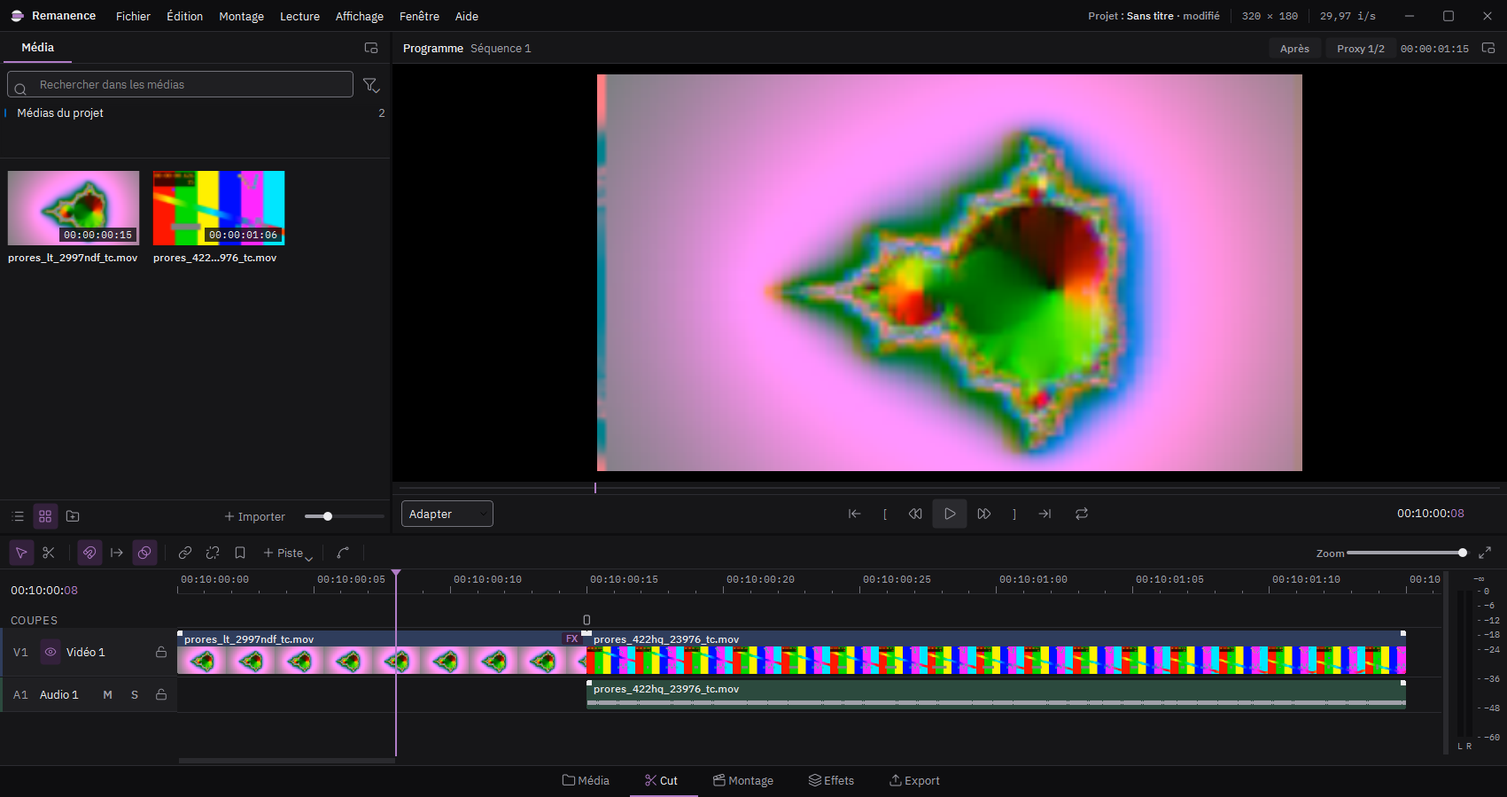
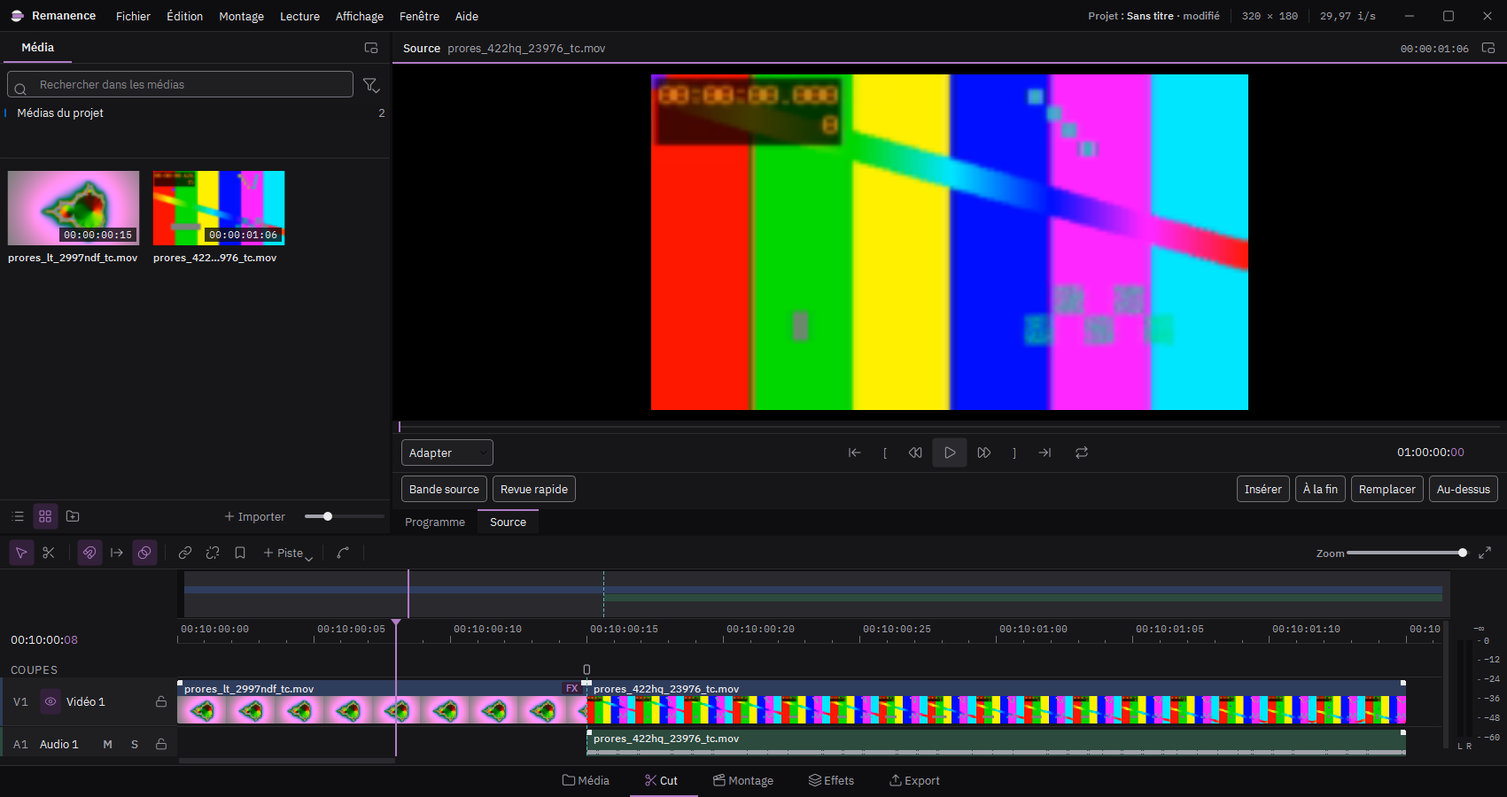
Étape 11, lot 4 : découpe aux changements de plan, revue rapide, rognage du raccord

diff --git a/remanence/ressources/guide/index.html b/remanence/ressources/guide/index.html
@@ -60,6 +60,7 @@ td { padding: 6px 16px 6px 0; border-bottom: 1px solid var(--ligne); vertical-al
 <li><a href="#aide-07-compression">Lire la compression d&#x27;un clip</a></li>
 <li><a href="#aide-08-exporter">Exporter</a></li>
 <li><a href="#aide-09-comparer">Comparer avant et après</a></li>
+<li><a href="#aide-10-cut">Monter vite dans l&#x27;espace Cut</a></li>
 <li><a href="#20-courbes">Courbes, modulateurs et suivi</a></li>
 <li><a href="#catalogue">Catalogue des effets</a></li>
 <li><a href="#raccourcis">Raccourcis clavier</a></li>
@@ -249,6 +250,25 @@ td { padding: 6px 16px 6px 0; border-bottom: 1px solid var(--ligne); vertical-al
 </ul>
 <h3>LUT d'affichage</h3>
 <p>Affichage &gt; LUT d'affichage &gt; Charger un fichier .cube : les deux moniteurs passent par la LUT, pratique pour regarder des rushs en log. Le rendu et l'export ne la voient jamais. Le badge LUT, à côté, la retire ou en choisit une autre ; Remanence la retrouve au lancement suivant.</p></section>
+<section><h2 id="aide-10-cut">Monter vite dans l&#x27;espace Cut</h2>
+<figure><img alt="Les deux timelines de l'espace Cut" src="../aide/cut.png"></figure>
+<ol>
+<li><strong>Passer dans Cut</strong> : Maj+2, ou Cut dans la barre du bas. Le moniteur a deux onglets, Source et Programme ; Q passe de l'un à l'autre.</li>
+<li><strong>Bande source</strong> : le bouton sous le moniteur enchaîne toutes les vidéos du panneau Média. Parcourez-la ; le plan sous la tête de lecture est celui qui sera posé. Sans point d'entrée ni de sortie, c'est le plan entier, d'un changement de plan au suivant.</li>
+<li><strong>Poser</strong> :</li>
+</ol>
+<ul>
+<li><strong>Insérer</strong> (Maj+F9) : au raccord le plus proche de la tête du programme, marqué en pointillés.</li>
+<li><strong>À la fin</strong> (Maj+F12) : au bout de la séquence.</li>
+<li><strong>Remplacer</strong> (Maj+F10) : à la place du plan sous la tête ; la suite se décale.</li>
+<li><strong>Au-dessus</strong> (F12) : sur une piste libre au-dessus, sans rien écraser.</li>
+</ul>
+<ol>
+<li><strong>Se déplacer</strong> : la bande du haut montre toute la séquence ; cliquez-y pour aller loin. La timeline du dessous garde la tête au centre.</li>
+<li><strong>Ajuster un raccord</strong> : Alt+gauche et Alt+droite déplacent d'une image le raccord marqué en pointillés (Alt+Maj : dix images).</li>
+<li><strong>Revue rapide</strong> : lit plus vite les longs plans, à vitesse normale les courts, pour parcourir un montage ou des heures de rushes.</li>
+<li><strong>Découper aux changements de plan</strong> (Ctrl+K, ou clic droit sur un clip) : un long enregistrement est coupé à chaque changement de plan.</li>
+</ol></section>
 <section><h2 id="20-courbes">Courbes, modulateurs et suivi</h2>
 <h3>Courbes</h3>
 <p>Le panneau Courbes (bouton en forme de courbe dans la barre de la timeline, ou Fenêtre &gt; Courbes) montre les réglages animés du clip choisi. Double-cliquez pour ajouter une image clé, glissez-la pour la déplacer, clic droit pour changer le passage (linéaire, palier, lissé, Bézier) ; Suppr la retire. En Bézier, les poignées règlent la forme de la courbe ; Alt les sépare.</p>
@@ -343,6 +363,15 @@ td { padding: 6px 16px 6px 0; border-bottom: 1px solid var(--ligne); vertical-al
 <tr><td>Lier la sélection</td><td><kbd>G</kbd></td></tr>
 <tr><td>Ripple</td><td><kbd>Ctrl+L</kbd></td></tr>
 <tr><td>Aimantation</td><td><kbd>F8</kbd></td></tr>
+<tr><td>Insertion intelligente</td><td><kbd>Maj+F9</kbd></td></tr>
+<tr><td>Ajouter à la fin</td><td><kbd>Maj+F12</kbd></td></tr>
+<tr><td>Remplacer le plan</td><td><kbd>Maj+F10</kbd></td></tr>
+<tr><td>Placer au-dessus</td><td><kbd>F12</kbd></td></tr>
+<tr><td>Découper aux changements de plan</td><td><kbd>Ctrl+K</kbd></td></tr>
+<tr><td>Raccord : une image à gauche</td><td><kbd>Alt+Left</kbd></td></tr>
+<tr><td>Raccord : une image à droite</td><td><kbd>Alt+Right</kbd></td></tr>
+<tr><td>Raccord : dix images à gauche</td><td><kbd>Alt+Maj+Left</kbd></td></tr>
+<tr><td>Raccord : dix images à droite</td><td><kbd>Alt+Maj+Right</kbd></td></tr>
 <tr><td>Insérer depuis la source</td><td><kbd>F9</kbd></td></tr>
 <tr><td>Écraser depuis la source</td><td><kbd>F10</kbd></td></tr>
 <tr><td>Ajouter un marqueur</td><td><kbd>M</kbd></td></tr>

diff --git a/remanence/ui/fenetre.py b/remanence/ui/fenetre.py
@@ -467,6 +467,8 @@ class FenetrePrincipale(QMainWindow):
         self.timeline.mode_cut(espace == "cut")
         if espace != "cut" and self._bande is not None:
             self.b_bande.setChecked(False)
+        if espace != "cut" and self.b_revue.isChecked():
+            self.b_revue.setChecked(False)
         self._espace = espace
         if espace == "cut":
             self.activer_moniteur("source" if self.media_source is not None else "programme")
@@ -612,6 +614,15 @@ class FenetrePrincipale(QMainWindow):
         mo.addSeparator()
         for mode, _, nom, touche in self.POSES:
             self._action(mo, nom, lambda _=False, mode=mode: self.poser_cut(mode), touche)
+        self._action(mo, "Découper aux changements de plan", self.decouper_aux_plans, "Ctrl+K")
+        self._action(mo, "Raccord : une image à gauche", lambda: self.rogner_raccord(-1),
+                     "Alt+Left")
+        self._action(mo, "Raccord : une image à droite", lambda: self.rogner_raccord(1),
+                     "Alt+Right")
+        self._action(mo, "Raccord : dix images à gauche", lambda: self.rogner_raccord(-10),
+                     "Alt+Shift+Left")
+        self._action(mo, "Raccord : dix images à droite", lambda: self.rogner_raccord(10),
+                     "Alt+Shift+Right")
         self._action(mo, "Insérer depuis la source", lambda: self.monter_source(True), "F9",
                      "")
         self._action(mo, "Écraser depuis la source", lambda: self.monter_source(False), "F10",
@@ -2101,6 +2112,14 @@ class FenetrePrincipale(QMainWindow):
         self.b_bande.setToolTip("Bande source")
         self.b_bande.toggled.connect(self.basculer_bande)
         lay.addWidget(self.b_bande)
+        self.b_revue = QPushButton("Revue rapide")
+        self.b_revue.setCheckable(True)
+        self.b_revue.setToolTip("Revue rapide")
+        self.b_revue.toggled.connect(self.revue_rapide)
+        lay.addWidget(self.b_revue)
+        self._minuterie_revue = QTimer(self)
+        self._minuterie_revue.setInterval(80)
+        self._minuterie_revue.timeout.connect(self._suivre_revue)
         lay.addStretch(1)
         self.boutons_poses = {}
         for mode, texte, nom, touche in self.POSES:
@@ -2113,6 +2132,92 @@ class FenetrePrincipale(QMainWindow):
         barre.hide()
         self._barre_poses = barre
         self.source.ajouter_ligne(barre)
+
+    # Revue rapide : lecture accélérée, d'autant plus que le plan est long (chaque plan dure à
+    # peu près REVUE_SECONDES à l'écran, au plus ×8, jamais moins que la vitesse normale).
+    REVUE_SECONDES = 2.5
+
+    def _plan_lu(self, nom: str, f: int) -> tuple[int, int]:
+        """Le plan sous la tête du moniteur : dans la bande, entre deux changements de plan ;
+        au programme, entre deux raccords."""
+        if nom == "source" and self._bande:
+            m, d, longueur = self._segment_bande(f)
+            a, b = edition.plan_autour(m.coupes, f - d, longueur)
+            return d + a, d + b
+        if nom == "source":
+            return 0, max(1, self._duree("source"))
+        raccords = [0] + edition.coupes(self.projet.sequence)
+        debut = max([r for r in raccords if r <= f] or [0])
+        fin = min([r for r in raccords if r > f] or [max(f + 1, self._duree("programme"))])
+        return debut, fin
+
+    def _vitesse_revue(self, nom: str, f: int) -> float:
+        a, b = self._plan_lu(nom, f)
+        cadence = float(self.projet.sequence.fraction_cadence)
+        return max(1.0, min(8.0, round((b - a) / (self.REVUE_SECONDES * cadence) * 2) / 2))
+
+    def revue_rapide(self, actif: bool):
+        nom = self._actif
+        moteur = self._moteur(nom)
+        if not actif:
+            self._minuterie_revue.stop()
+            if moteur.en_lecture:
+                moteur.pause()
+            return
+        self._revue = nom
+        self._moteur("programme" if nom == "source" else "source").pause()
+        moteur.lire(self._vitesse_revue(nom, moteur.position))
+        self._minuterie_revue.start()
+
+    def _suivre_revue(self):
+        moteur = self._moteur(self._revue)
+        if not moteur.en_lecture:
+            # Arrêtée (fin, K, Espace) : le bouton se relâche.
+            self._minuterie_revue.stop()
+            self.b_revue.blockSignals(True)
+            self.b_revue.setChecked(False)
+            self.b_revue.blockSignals(False)
+            return
+        v = self._vitesse_revue(self._revue, moteur.position)
+        if v != moteur.vitesse:
+            moteur.lire(v)
+
+    def rogner_raccord(self, delta: int):
+        """Fait glisser d'images le raccord visé (le plus proche de la tête) : le plan de
+        gauche gagne ce que celui de droite perd (roll) ; la tête suit le raccord."""
+        seq = self.projet.sequence
+        c = edition.raccord_a_rogner(seq, self.lecture.position)
+        if c is None:
+            self.message("Aucun raccord à rogner")
+            return
+        fait = []
+
+        def faire():
+            fait.append(edition.rouler(self.projet, seq, c.id, delta))
+        self._tenter("Rognage du raccord", faire)
+        if fait:
+            self.aller_a(c.fin)
+
+    def decouper_aux_plans(self):
+        """Coupe les clips choisis à chaque changement de plan de leur média."""
+        seq = self.projet.sequence
+        clips = [c for c in (seq.trouver(i)[1] for i in self.timeline.vue.selection)
+                 if c is not None and c.est_media]
+        if not clips:
+            self.message("Choisissez un clip")
+            return
+        if any(self.projet.medias[c.media_id].coupes is None for c in clips):
+            self.message("Analyse des plans en cours")
+            return
+        total = []
+
+        def faire():
+            for c in clips:
+                total.append(edition.decouper_aux_plans(
+                    seq, c.id, prerendu.coupes_du_clip(self.projet, c)))
+        self._tenter("Découpe aux changements de plan", faire)
+        if total:
+            self.message(f"{sum(total)} coupes" if sum(total) else "Aucun changement de plan")
 
     def _segment_bande(self, f: int):
         """(média, début dans la bande, longueur) de l'image f de la bande."""
@@ -2185,6 +2290,10 @@ class FenetrePrincipale(QMainWindow):
             return
         seq = self.projet.sequence
         entree, sortie = m.plage_source(seq.fraction_cadence)
+        if self._bande and m.point_entree is None and m.point_sortie is None:
+            # Bande source sans points : le plan sous la tête, entre deux changements de plan.
+            t = self.lecture_source.position - self._debut_dans_bande()
+            entree, sortie = edition.plan_autour(m.coupes, t, m.nb_images(seq.fraction_cadence))
         duree = sortie - entree
         f = self.lecture.position
         clips = []

diff --git a/tests/test_interface.py b/tests/test_interface.py
@@ -1628,3 +1628,76 @@ def test_double_timeline_de_cut(fenetre, medias):
     assert _attendre(lambda: abs(tl.vue.x_de(tl.vue.tete) - tl.vue.width() / 2) < 2, 2)
     w.choisir_espace("montage")
     assert not tl.ensemble.isVisible() and not tl.vue.montrer_raccord and not tl.centrer_tete
+
+
+def test_aller_plus_vite_dans_cut(fenetre, medias):
+    """Étape 11, lot 4 : découper aux changements de plan, plan de la bande entre deux
+    coupes, rognage du raccord visé au clavier, revue rapide."""
+    w = fenetre
+    w.importer_chemins([str(medias["prores_hq"])])
+    assert _attendre(lambda: len(w.projet.medias) == 1)
+    m = next(iter(w.projet.medias.values()))
+    assert _attendre(lambda: m.coupes is not None, 10)
+    m.coupes = [10, 20]  # trois plans : 0-10, 10-20, 20-30
+    w.poser_medias([m.id], 0, "")
+    seq = lambda: w.projet.sequence
+    v1 = lambda: [(c.debut, c.duree) for c in seq().pistes_video[-1].clips]
+    w.timeline.vue._choisir({seq().pistes_video[-1].clips[0].id})
+    w.decouper_aux_plans()
+    assert _attendre(lambda: v1() == [(0, 10), (10, 10), (20, 10)], 2)
+    assert len(seq().pistes_audio[0].clips) == 3, "le son est coupé avec l'image"
+    # Rognage du raccord le plus proche de la tête (ici celui de l'image 10).
+    w.aller_a(9)
+    w.rogner_raccord(2)
+    assert _attendre(lambda: v1() == [(0, 12), (12, 8), (20, 10)], 2)
+    assert w.lecture.position == 12, "la tête suit le raccord"
+    w.rogner_raccord(-3)
+    assert _attendre(lambda: v1() == [(0, 9), (9, 11), (20, 10)], 2)
+    # Bande source sans points : la pose prend le plan sous la tête, pas le média entier.
+    w.choisir_espace("cut")
+    w.b_bande.setChecked(True)
+    w.aller("source", 14)
+    assert _attendre(lambda: w.lecture_source.position == 14, 2)
+    w.poser_cut("fin")
+    assert _attendre(lambda: len(v1()) == 4, 2)
+    dernier = seq().pistes_video[-1].clips[-1]
+    assert (dernier.entree, dernier.duree) == (10, 10)
+    # Revue rapide : plus vite sur un long plan, jamais moins que la vitesse normale.
+    assert w._vitesse_revue("programme", 2) == 1.0
+    assert w._vitesse_revue("source", 5) == 1.0  # plans de 10 images : vitesse normale
+    w.activer_moniteur("programme")
+    w.aller_a(0)
+    w.b_revue.setChecked(True)
+    assert w.lecture.en_lecture and w.lecture.vitesse >= 1
+    w.b_revue.setChecked(False)
+    assert not w.lecture.en_lecture
+
+
+def test_validation_etape_11(fenetre, medias):
+    """Validation de l'étape 11 : dix plans montés sans quitter Cut (raccourcis des poses),
+    les deux timelines sur la même tête, l'insertion intelligente toujours sur un raccord."""
+    from PySide6.QtGui import QKeySequence
+    w = fenetre
+    w.importer_chemins([str(medias["prores_hq"]), str(medias["sans_audio_2997"])])
+    assert _attendre(lambda: len(w.projet.medias) == 2)
+    w.choisir_espace("cut")
+    w.b_bande.setChecked(True)
+    actions = {a.text(): a for a in w.findChildren(type(w.a_barre_espaces))}
+    assert actions["Insertion intelligente"].shortcut() == QKeySequence("Shift+F9")
+    seq = lambda: w.projet.sequence
+    import random
+    hasard = random.Random(3)
+    for i in range(10):
+        segment = w._bande[i % 2]
+        w.aller("source", segment[1] + hasard.randrange(segment[2]))
+        w.aller_a(hasard.randrange(max(1, seq().duree() + 1)))
+        actions["Insertion intelligente" if i % 3 else "Ajouter à la fin"].trigger()
+        assert w._espace == "cut"
+    v1 = seq().pistes_video[-1].clips
+    assert len(v1) == 10, "dix plans, aucun coupé en deux"
+    assert all(c.entree == 0 for c in v1), "chaque plan entier, jamais entamé"
+    assert all(a.fin == b.debut for a, b in zip(v1, v1[1:])), "sans trou"
+    assert w.timeline.vue.tete == w.lecture.position
+    e = w.timeline.ensemble
+    tete = min(w.lecture.position, seq().duree() - 1)  # la bande vise la dernière image
+    assert e.isVisible() and e.f_de(e.x_de(tete)) == tete

diff --git a/remanence/projet/edition.py b/remanence/projet/edition.py
@@ -142,6 +142,40 @@ def _refermer(seq: Sequence, debut: int, fin: int):
             m.position = debut
 
 
+def decouper_aux_plans(seq: Sequence, clip_id: str, coupes: list[int]) -> int:
+    """Coupe le clip (et ses liés) à chacune de ses coupes (images depuis son début, voir
+    `prerendu.coupes_du_clip`). Renvoie le nombre de coupes faites."""
+    piste, c = seq.trouver(clip_id)
+    if c is None:
+        return 0
+    ids = avec_lies(seq, {c.id})
+    debut = c.debut
+    # De la dernière à la première : la partie gauche garde l'identité du clip.
+    images = sorted({debut + k for k in coupes if 0 < k < c.duree}, reverse=True)
+    for f in images:
+        couper(seq, f, ids)
+    return len(images)
+
+
+def plan_autour(coupes: list[int] | None, t: int, longueur: int) -> tuple[int, int]:
+    """Le plan du média qui contient l'image t : (première image, fin exclue), d'après ses
+    changements de plan ; le média entier sans analyse."""
+    if not coupes:
+        return 0, longueur
+    debut = max([0] + [k for k in coupes if k <= t])
+    fin = min([longueur] + [k for k in coupes if k > t])
+    return debut, fin
+
+
+def raccord_a_rogner(seq: Sequence, f: int) -> Clip | None:
+    """Le clip de V1 qui finit au raccord le plus proche de f, s'il a un voisin collé à sa
+    droite : celui que le rognage au clavier fait glisser."""
+    r = raccord_proche(seq, f)
+    piste = _piste_type(seq, "video")
+    return next((c for c in piste.clips if c.fin == r
+                 and any(o.debut == r for o in piste.clips if o is not c)), None)
+
+
 def remplacer_plan(projet: Projet, seq: Sequence, clip_id: str, media: Media, entree: int,
                    duree: int) -> list[Clip]:
     """Le plan prend la place du clip (et de ses liés) ; la suite de la séquence, sur toutes

diff --git a/remanence/ui/timeline.py b/remanence/ui/timeline.py
@@ -988,6 +988,9 @@ class VueTimeline(QWidget):
                 a.setEnabled(fenetre._transformation_copiee is not None)
                 a = sous.addAction("Réinitialiser", fenetre.reinitialiser_transformation)
                 a.setEnabled(clip.transformation is not None)
+            if clip.est_media and piste_clip.type == "video":
+                menu.addAction("Découper aux changements de plan (Ctrl+K)",
+                               fenetre.decouper_aux_plans)
             if self.projet.sequence.trouver(clip.id)[0].type == "video":
                 effets = menu.addMenu("Ajouter un effet")
                 remplir_menu_effets(effets, lambda liste: fenetre.ajouter_effet(

diff --git a/tests/test_montage_avance.py b/tests/test_montage_avance.py
@@ -131,3 +131,11 @@ def test_poses_rapides_gardent_les_pistes_synchrones(medias):
     edition.remplacer_plan(p, seq, v1[0].id, m, 0, 9)
     assert [(c.debut, c.duree) for c in seq.pistes_video[-1].clips] == [(0, 9), (9, 10)]
     assert seq.pistes_video[0].clips[0].debut == 11
+
+
+def test_plan_autour_et_raccord_a_rogner():
+    from remanence.projet import edition
+    assert edition.plan_autour([10, 20], 14, 30) == (10, 20)
+    assert edition.plan_autour([10, 20], 3, 30) == (0, 10)
+    assert edition.plan_autour([10, 20], 25, 30) == (20, 30)
+    assert edition.plan_autour(None, 5, 30) == (0, 30)

diff --git a/scripts/captures_aide.py b/scripts/captures_aide.py
@@ -133,6 +133,12 @@ def main():
     attendre(app, delai=0.6)
     photo(w._docks["export"], "export.png")
 
+    # Espace Cut : la bande d'ensemble au-dessus de la timeline, le raccord visé.
+    w.choisir_espace("cut")
+    w.aller_a(seq.pistes_video[-1].clips[0].fin - 3)
+    attendre(app, delai=0.8)
+    photo(w._docks["timeline"], "cut.png", 820, 270)
+
     w.modifie = False
     w.close()
 

diff --git a/CLAUDE.md b/CLAUDE.md
@@ -39,7 +39,7 @@ Logiciel Windows de montage vidéo orienté datamosh et glitch art, dans l'espri
 - Étape 8 (position, taille et rotation des clips) : plan en quatre lots accepté par Lewis le 5 novembre 2026 avec les choix par défaut (1 calcul : position, taille, largeur et hauteur, rotation, recadrage, retournements, sur la carte graphique, après les effets du clip et avant ceux de la piste ; 2 section Transformation de l'inspecteur, images clés, courbes et modulateurs ; 3 poignées sur l'image du programme, masques qui suivent ; 4 Adapter, Remplir, Taille réelle, copier et coller une transformation ; titres et imbrications compris ; validation : un clip réduit et tourné s'exporte comme dans l'aperçu, une position animée donne deux exports identiques, un clip sans transformation reste au pixel près). Lot 1 fait le 5 novembre 2026, 218 tests au vert. Lot 2 fait le 5 novembre 2026, 219 tests au vert. Lot 3 fait le 5 novembre 2026, 220 tests au vert. Lot 4 fait le 5 novembre 2026, 222 tests au vert, Remanence.exe reconstruit (diagnostic entièrement ok). Validée par Lewis le 5 novembre 2026.
 - Étape 9 (finitions) : faite le 5 novembre 2026, 224 tests au vert, Remanence.exe reconstruit (diagnostic entièrement ok), validée par Lewis le 5 novembre 2026. Avertissement « QFont::setPointSize: Point size <= 0 (-1) » : message interne de Qt, intermittent, au retour sur la fenêtre principale (fermeture de l'accueil) ; aucun appel de Remanence en cause (polices de la charte en pixels, style Windows 11 de Qt probable) ; filtré par `journal._brancher_qt` (`ignores`). Script FFglitch choisi dans un menu (sans préréglage, depuis les menus à deux niveaux) : il arrivait sans script et ffedit échouait (« __glitch_frame is not defined », séance de Lewis du 5 novembre 2026) ; `nouvel_effet` donne maintenant le premier script fourni, et `scripts.adapter` laisse passer l'image si le script n'a pas de glitch_frame. `edition.decaler_cles` décale aussi les images clés des masques (rogner le début ou couper faisait glisser un masque animé).
 - Étape 10 (diffusion) : plan en trois lots accepté par Lewis le 5 novembre 2026 (1 version 1.0.0 et notes de version ; 2 installateur Inno Setup, choisi par Lewis contre un installateur maison : installation dans `C:\Program Files\Flux Croisés\Remanence` pour tous les comptes (convention demandée par Lewis le 5 novembre 2026, comme Vegas Pro ou Resolve ; d'abord prévue par utilisateur sans droits d'administrateur), « Pour moi seulement » proposé au départ, menu Démarrer, raccourci de bureau en option, association des fichiers .remanence, désinstallation qui garde projets, réglages et journal, FFglitch toujours téléchargé au premier lancement, `Construire.bat` fabrique aussi l'installateur ; 3 essai complet sur la session de Lewis : installer, double-clic sur un projet, diagnostic, désinstaller). Inno Setup 6 installé par Claude avec winget (accord de Lewis), dans `%LOCALAPPDATA%\Programs\Inno Setup 6` (ISCC.exe). Lot 1 fait le 5 novembre 2026, 225 tests au vert : `__version__ = "1.0.0"` (propriétés du programme, écran de démarrage, À propos, guide refait), `NOTES_DE_VERSION.md` à la racine (contenu de la version, limites connues : OpenGL 4.3, FFglitch au premier lancement, programme non signé), livré dans `_internal` et copié à côté de Remanence.exe (`Remanence.spec`), onglets « Notes de version » et « Licences » dans À propos (`APropos.onglets`), vérifié par le diagnostic. Lot 2 fait le 5 novembre 2026, 226 tests au vert : `Remanence.iss` (UTF-8 avec BOM, sinon « Flux Croisés » est mal lu ; AppId fixe F0F6C70C-…, `PrivilegesRequired=admin` avec `PrivilegesRequiredOverridesAllowed=dialog` : l'assistant demande d'abord « pour tous » ou « pour moi seulement » ; `DefaultDirName={autopf}\Flux Croisés\Remanence`, `{autopf}` = Program Files, ou `%LOCALAPPDATA%\Programs` pour moi seulement ; « Lancer Remanence » en fin d'installation avec `runasoriginaluser` (jamais en administrateur) ; FFglitch, que Remanence ne peut pas écrire dans Program Files, va dans `%LOCALAPPDATA%\Remanence\outils`, vidé aussi à la désinstallation ; menu Démarrer, tâche « Raccourci sur le bureau » décochée, clés `HKA\Software\Classes\.remanence` et `Remanence.Projet` (icône, ouverture avec "%1"), `ChangesAssociations`, `Excludes: "\outils"` (FFglitch jamais dans l'installateur), `[UninstallDelete]` du dossier outils téléchargé, français, LZMA2 solide : 93 Mo pour 344 Mo), images de l'assistant aux couleurs de la charte (`scripts/images_installateur.py`, BMP 24 bits à 100, 150 et 200 %, dans `build/installateur`). `Construire.bat` : après Remanence.exe, ISCC dans `%LOCALAPPDATA%\Programs\Inno Setup 6` ou `%ProgramFiles(x86)%`, version lue dans `remanence.__version__` (piège : dans `for /f` avec `usebackq`, un chemin d'exécutable entre guillemets suivi d'arguments entre guillemets perd ses guillemets ; chemin sans guillemets). Inno Setup 6.7.3 inscrit dans `LICENCES.md` (outils de développement ; son programme d'installation est livré dans l'installateur). Lot 3 fait le 5 novembre 2026, 227 tests au vert : essai sur la session de Lewis (il a validé chaque autorisation de Windows) : installation silencieuse `/SILENT /ALLUSERS`, fichiers dans `C:\Program Files\Flux Croisés\Remanence` sans FFglitch, raccourci du menu Démarrer (pas de bureau, case décochée), association, ligne « Remanence 1.0.0 · Flux Croisés » dans Applications, `--diagnostic` entièrement ok (FFglitch absent, moteur de secours), projet ouvert par l'association (titre « Essai installation · Remanence »), désinstallation silencieuse : il ne reste que le journal et les projets. Défauts trouvés et corrigés : (1) feuille de style rejetée en entier par Qt (« Could not parse application stylesheet ») : le chemin des icônes, `url(C:/Program Files/…)`, sans guillemets ; il est entre guillemets (`tests/test_charte.test_feuille_lisible_dans_program_files`) ; (2) clé `.remanence` vide laissée à la désinstallation (`uninsdeletekeyifempty`) ; (3) dossier `Flux Croisés` vide (`dirifempty` sur `{autopf}\Flux Croisés` : il héberge aussi Afterdusk, un autre logiciel de Lewis, qui n'est pas touché). Une boîte (proposition de télécharger FFglitch au premier lancement) empêche de fermer la fenêtre par `CloseMainWindow` : normal. Validée par Lewis le 5 novembre 2026.
-- Étape 11 (espace Cut, montage rapide) : plan en quatre lots accepté par Lewis le 5 novembre 2026 avec les choix par défaut (1 espace Cut entre Média et Montage, raccourcis renumérotés Maj+1 à Maj+5 dans l'ordre de la barre, pas d'inspecteur ; 2 bande source (tous les médias du chutier enchaînés dans le moniteur) et quatre poses : insertion intelligente au raccord le plus proche, ajouter à la fin, remplacer le plan sous la tête (la suite se décale), placer au-dessus ; 3 double timeline : bande de toute la séquence au-dessus, timeline détaillée autour de la tête, repère du raccord visé ; 4 découper un média aux changements de plan (`Media.coupes`), revue rapide (plus vite sur les longs plans), rognage du raccord visé au clavier ; validation : dix plans montés sans quitter Cut, timelines synchronisées, insertion intelligente toujours sur un raccord). Lot 1 fait le 5 novembre 2026, 228 tests au vert : `PANNEAUX_ESPACE["cut"]` = médias, programme (`visionneuse`), timeline ; `_disposition` (médias 420 px, programme le reste ; second écran : programme seul) ; moniteur ajusté en 16:9 comme Montage et Effets ; `barres.ESPACES` (icône `scissors`) ; Maj+1 à 5 avec Maj+&, é, ", ', ( (AZERTY) ; aide et guide (chapitre L'écran, capture `espace-cut.png`) mis à jour. Lot 2 fait le 5 novembre 2026, 230 tests au vert : moniteur unique = docks source et programme en onglets (`tabifyDockWidget` ; `activer_moniteur` lève l'onglet dans Cut, Q bascule) ; rangée `_barre_poses` sous le moniteur source (`Moniteur.ajouter_ligne`), visible dans Cut seulement : « Bande source » (`basculer_bande` : mini-projet aux réglages de la séquence où les vidéos de `PanneauMedias.medias_affiches()` se suivent ; `_bande` = [(média, début, longueur)] ; le média sous la tête devient `media_source` (`_position_source`), points d'entrée et de sortie gardés par média, en images du média (`_debut_dans_bande`), `_duree` et `_points` de la source en images de la bande ; charger un média y amène la tête ; quitter Cut arrête la bande) et quatre poses (`Fenetre.poser_cut`, `POSES`, aussi au menu Montage) avec la partie choisie de la source (le plan entier sans points) : Insérer = insertion intelligente au raccord le plus proche (`edition.raccord_proche`, Maj+F9), À la fin (Maj+F12), Remplacer le plan sous la tête de V1 (`edition.remplacer_plan` : le plan et ses liés retirés, la suite de toutes les pistes, marqueurs compris, avance ou recule de la différence, `_refermer` ; Maj+F10), Au-dessus (`edition.placer_au_dessus` : première piste vidéo libre au-dessus de V1, sinon une nouvelle en haut, son sur une piste audio libre, rien d'écrasé ; F12) ; raccourcis de Resolve. `ajouter_media(..., piste_audio=)`. Feuille de style : `QPushButton:checked` (fond `accent-soft`, texte et bord `accent`) : les boutons enclenchés ordinaires ne se voyaient pas (Bande source, Sur l'image). Capture : `UI/captures/cut_lot2.png`. Lot 3 fait le 5 novembre 2026, 231 tests au vert : `Timeline.mode_cut(actif)` (appelé par `_appliquer_espace`) : `VueEnsemble` (timeline.py, 56 px, au-dessus des pistes et alignée sur elles) : une rangée fine par piste non vide (couleurs des clips, clips choisis en `accent`), la partie montrée par la timeline détaillée en `surface-hover`, le raccord visé en pointillés `accent-2`, la tête en `playhead` ; clic et glisser amènent la tête (`fenetre.aller_a`) ; repeinte avec la timeline détaillée (fin de `VueTimeline.paintEvent`) et à chaque défilement. Timeline détaillée : `centrer_tete` (la tête reste au centre, la timeline défile sous elle), `VueTimeline.montrer_raccord` (pointillés `accent-2` sur le raccord de `edition.raccord_proche`, celui que vise Insérer). Hors de Cut, tout revient comme avant. Capture : `UI/captures/cut_lot3.png`.
+- Étape 11 (espace Cut, montage rapide) : plan en quatre lots accepté par Lewis le 5 novembre 2026 avec les choix par défaut (1 espace Cut entre Média et Montage, raccourcis renumérotés Maj+1 à Maj+5 dans l'ordre de la barre, pas d'inspecteur ; 2 bande source (tous les médias du chutier enchaînés dans le moniteur) et quatre poses : insertion intelligente au raccord le plus proche, ajouter à la fin, remplacer le plan sous la tête (la suite se décale), placer au-dessus ; 3 double timeline : bande de toute la séquence au-dessus, timeline détaillée autour de la tête, repère du raccord visé ; 4 découper un média aux changements de plan (`Media.coupes`), revue rapide (plus vite sur les longs plans), rognage du raccord visé au clavier ; validation : dix plans montés sans quitter Cut, timelines synchronisées, insertion intelligente toujours sur un raccord). Lot 1 fait le 5 novembre 2026, 228 tests au vert : `PANNEAUX_ESPACE["cut"]` = médias, programme (`visionneuse`), timeline ; `_disposition` (médias 420 px, programme le reste ; second écran : programme seul) ; moniteur ajusté en 16:9 comme Montage et Effets ; `barres.ESPACES` (icône `scissors`) ; Maj+1 à 5 avec Maj+&, é, ", ', ( (AZERTY) ; aide et guide (chapitre L'écran, capture `espace-cut.png`) mis à jour. Lot 2 fait le 5 novembre 2026, 230 tests au vert : moniteur unique = docks source et programme en onglets (`tabifyDockWidget` ; `activer_moniteur` lève l'onglet dans Cut, Q bascule) ; rangée `_barre_poses` sous le moniteur source (`Moniteur.ajouter_ligne`), visible dans Cut seulement : « Bande source » (`basculer_bande` : mini-projet aux réglages de la séquence où les vidéos de `PanneauMedias.medias_affiches()` se suivent ; `_bande` = [(média, début, longueur)] ; le média sous la tête devient `media_source` (`_position_source`), points d'entrée et de sortie gardés par média, en images du média (`_debut_dans_bande`), `_duree` et `_points` de la source en images de la bande ; charger un média y amène la tête ; quitter Cut arrête la bande) et quatre poses (`Fenetre.poser_cut`, `POSES`, aussi au menu Montage) avec la partie choisie de la source (le plan entier sans points) : Insérer = insertion intelligente au raccord le plus proche (`edition.raccord_proche`, Maj+F9), À la fin (Maj+F12), Remplacer le plan sous la tête de V1 (`edition.remplacer_plan` : le plan et ses liés retirés, la suite de toutes les pistes, marqueurs compris, avance ou recule de la différence, `_refermer` ; Maj+F10), Au-dessus (`edition.placer_au_dessus` : première piste vidéo libre au-dessus de V1, sinon une nouvelle en haut, son sur une piste audio libre, rien d'écrasé ; F12) ; raccourcis de Resolve. `ajouter_media(..., piste_audio=)`. Feuille de style : `QPushButton:checked` (fond `accent-soft`, texte et bord `accent`) : les boutons enclenchés ordinaires ne se voyaient pas (Bande source, Sur l'image). Capture : `UI/captures/cut_lot2.png`. Lot 3 fait le 5 novembre 2026, 231 tests au vert : `Timeline.mode_cut(actif)` (appelé par `_appliquer_espace`) : `VueEnsemble` (timeline.py, 56 px, au-dessus des pistes et alignée sur elles) : une rangée fine par piste non vide (couleurs des clips, clips choisis en `accent`), la partie montrée par la timeline détaillée en `surface-hover`, le raccord visé en pointillés `accent-2`, la tête en `playhead` ; clic et glisser amènent la tête (`fenetre.aller_a`) ; repeinte avec la timeline détaillée (fin de `VueTimeline.paintEvent`) et à chaque défilement. Timeline détaillée : `centrer_tete` (la tête reste au centre, la timeline défile sous elle), `VueTimeline.montrer_raccord` (pointillés `accent-2` sur le raccord de `edition.raccord_proche`, celui que vise Insérer). Hors de Cut, tout revient comme avant. Capture : `UI/captures/cut_lot3.png`. Lot 4 fait le 5 novembre 2026, 234 tests au vert, Remanence.exe et installateur reconstruits (diagnostic entièrement ok) : Découper aux changements de plan (Montage et menu du clip, Ctrl+K ; `edition.decouper_aux_plans` avec `prerendu.coupes_du_clip`, de la dernière coupe à la première, son compris ; refusé tant que l'analyse des coupes du média n'est pas finie) ; dans la bande source sans points, une pose prend le plan sous la tête entre deux changements de plan (`edition.plan_autour`) ; Revue rapide (bouton de la rangée Cut, `revue_rapide` : le moniteur actif lit à `REVUE_SECONDES` = 2,5 s par plan, de ×1 à ×8 par demi-pas, minuterie de 80 ms qui ajuste la vitesse à chaque plan (`_plan_lu` : plan de la bande, ou entre deux raccords au programme) et relâche le bouton quand la lecture s'arrête ; à la fin de la séquence, la lecture s'arrête aussitôt) ; rognage du raccord visé (Alt+gauche et droite, Alt+Maj : dix images ; `edition.raccord_a_rogner` : le clip de V1 qui finit au raccord le plus proche, avec un voisin collé, puis `edition.rouler` ; la tête suit le raccord). Fiche d'aide `10-cut.md` (capture `cut.png` par `captures_aide.py`), guide refait (16 chapitres), notes de version. Test de validation : `test_validation_etape_11` (dix poses par les raccourcis sans quitter Cut, dix plans entiers et jointifs, tête commune aux deux timelines).
 
 ## Commandes
 

diff --git a/remanence/ressources/aide/10-cut.md b/remanence/ressources/aide/10-cut.md
@@ -1,0 +1,15 @@
+# Monter vite dans l'espace Cut
+
+![Les deux timelines de l'espace Cut](cut.png)
+
+1. **Passer dans Cut** : Maj+2, ou Cut dans la barre du bas. Le moniteur a deux onglets, Source et Programme ; Q passe de l'un à l'autre.
+2. **Bande source** : le bouton sous le moniteur enchaîne toutes les vidéos du panneau Média. Parcourez-la ; le plan sous la tête de lecture est celui qui sera posé. Sans point d'entrée ni de sortie, c'est le plan entier, d'un changement de plan au suivant.
+3. **Poser** :
+   - **Insérer** (Maj+F9) : au raccord le plus proche de la tête du programme, marqué en pointillés.
+   - **À la fin** (Maj+F12) : au bout de la séquence.
+   - **Remplacer** (Maj+F10) : à la place du plan sous la tête ; la suite se décale.
+   - **Au-dessus** (F12) : sur une piste libre au-dessus, sans rien écraser.
+4. **Se déplacer** : la bande du haut montre toute la séquence ; cliquez-y pour aller loin. La timeline du dessous garde la tête au centre.
+5. **Ajuster un raccord** : Alt+gauche et Alt+droite déplacent d'une image le raccord marqué en pointillés (Alt+Maj : dix images).
+6. **Revue rapide** : lit plus vite les longs plans, à vitesse normale les courts, pour parcourir un montage ou des heures de rushes.
+7. **Découper aux changements de plan** (Ctrl+K, ou clic droit sur un clip) : un long enregistrement est coupé à chaque changement de plan.

diff --git a/NOTES_DE_VERSION.md b/NOTES_DE_VERSION.md
@@ -11,6 +11,7 @@ Novembre 2026. Première version publique, éditée par Flux Croisés, sous lice
 - Timeline à pistes vidéo et audio, gestes de Vegas Pro : slip, slide, roll, ripple, aimantation, fondus enchaînés au chevauchement.
 - Vitesse par clip et lecture à rebours, séquences imbriquées, titres, rendu sur place.
 - Position, taille, rotation, recadrage et miroir des clips, réglés dans l'inspecteur ou à la souris sur l'image.
+- Espace Cut pour monter vite : bande source, insertion au raccord le plus proche, ajout à la fin, remplacement, pose au-dessus, double timeline, revue rapide, découpe aux changements de plan.
 - Marqueurs nommés, timecode au choix, double écran.
 
 ### Effets
